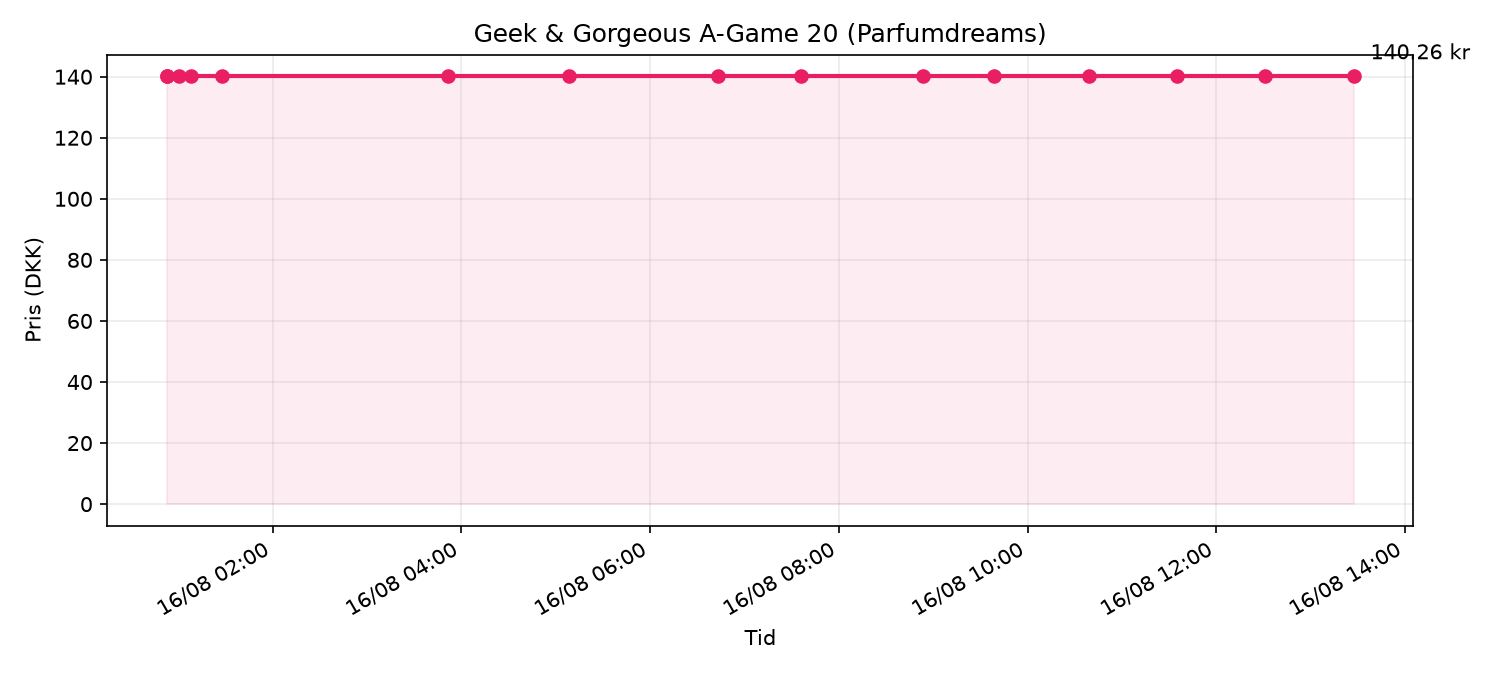
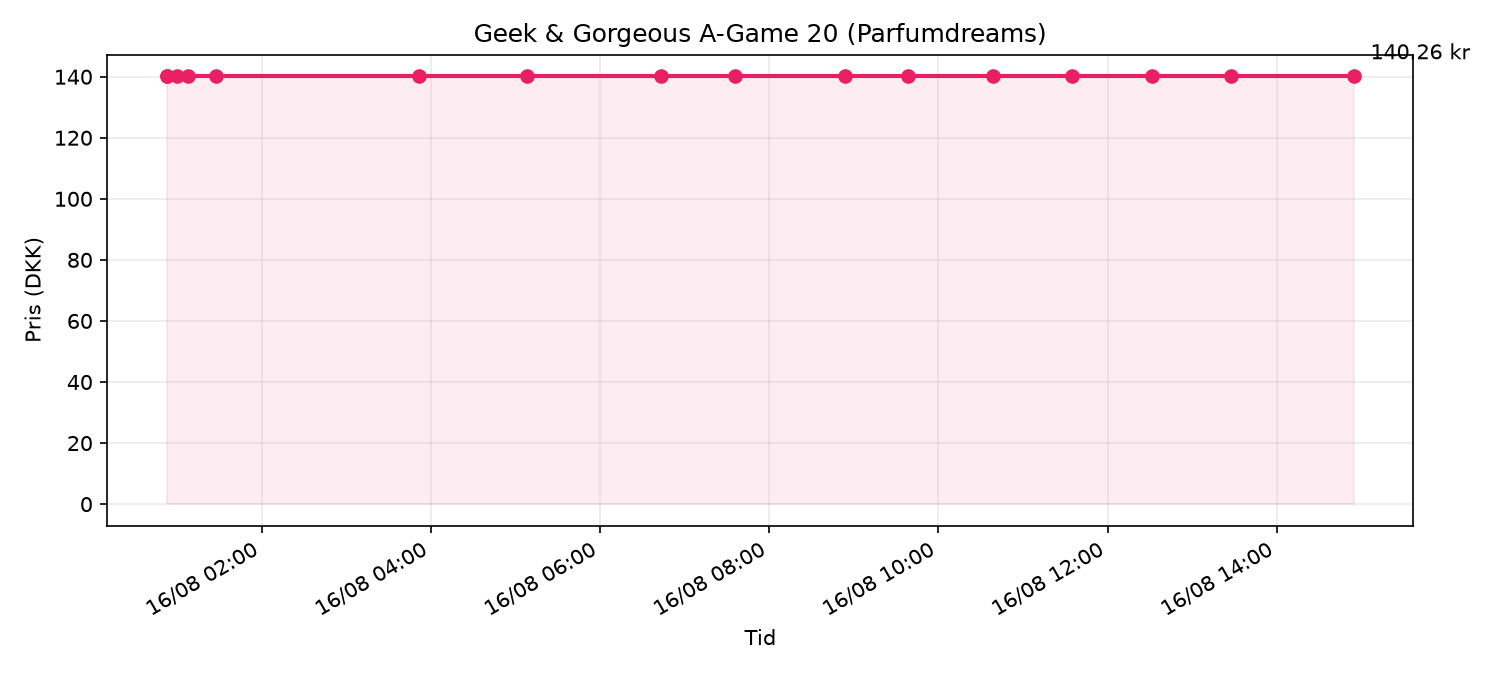
price check 2026-08-16T12:54Z

diff --git a/data/price_chart.html b/data/price_chart.html
@@ -13,7 +13,7 @@
 </head>
 <body>
   <h1>Geek & Gorgeous A-Game 20 (Parfumdreams)</h1>
-  <p class="meta">Senest tjekket: 16/08/2026 13:27 · Pris: <strong>140.26 kr</strong> · på lager</p>
+  <p class="meta">Senest tjekket: 16/08/2026 14:54 · Pris: <strong>140.26 kr</strong> · på lager</p>
   
   <p><a href="https://www.parfumdreams.dk/Geek-Gorgeous/Samlinger/101-aktive-stoffer/A-Game-20-Serum/index_137083.aspx?variation=221879">Åbn produkt på Parfumdreams</a></p>
   <img src="price_chart.png" alt="Prisgraf">
